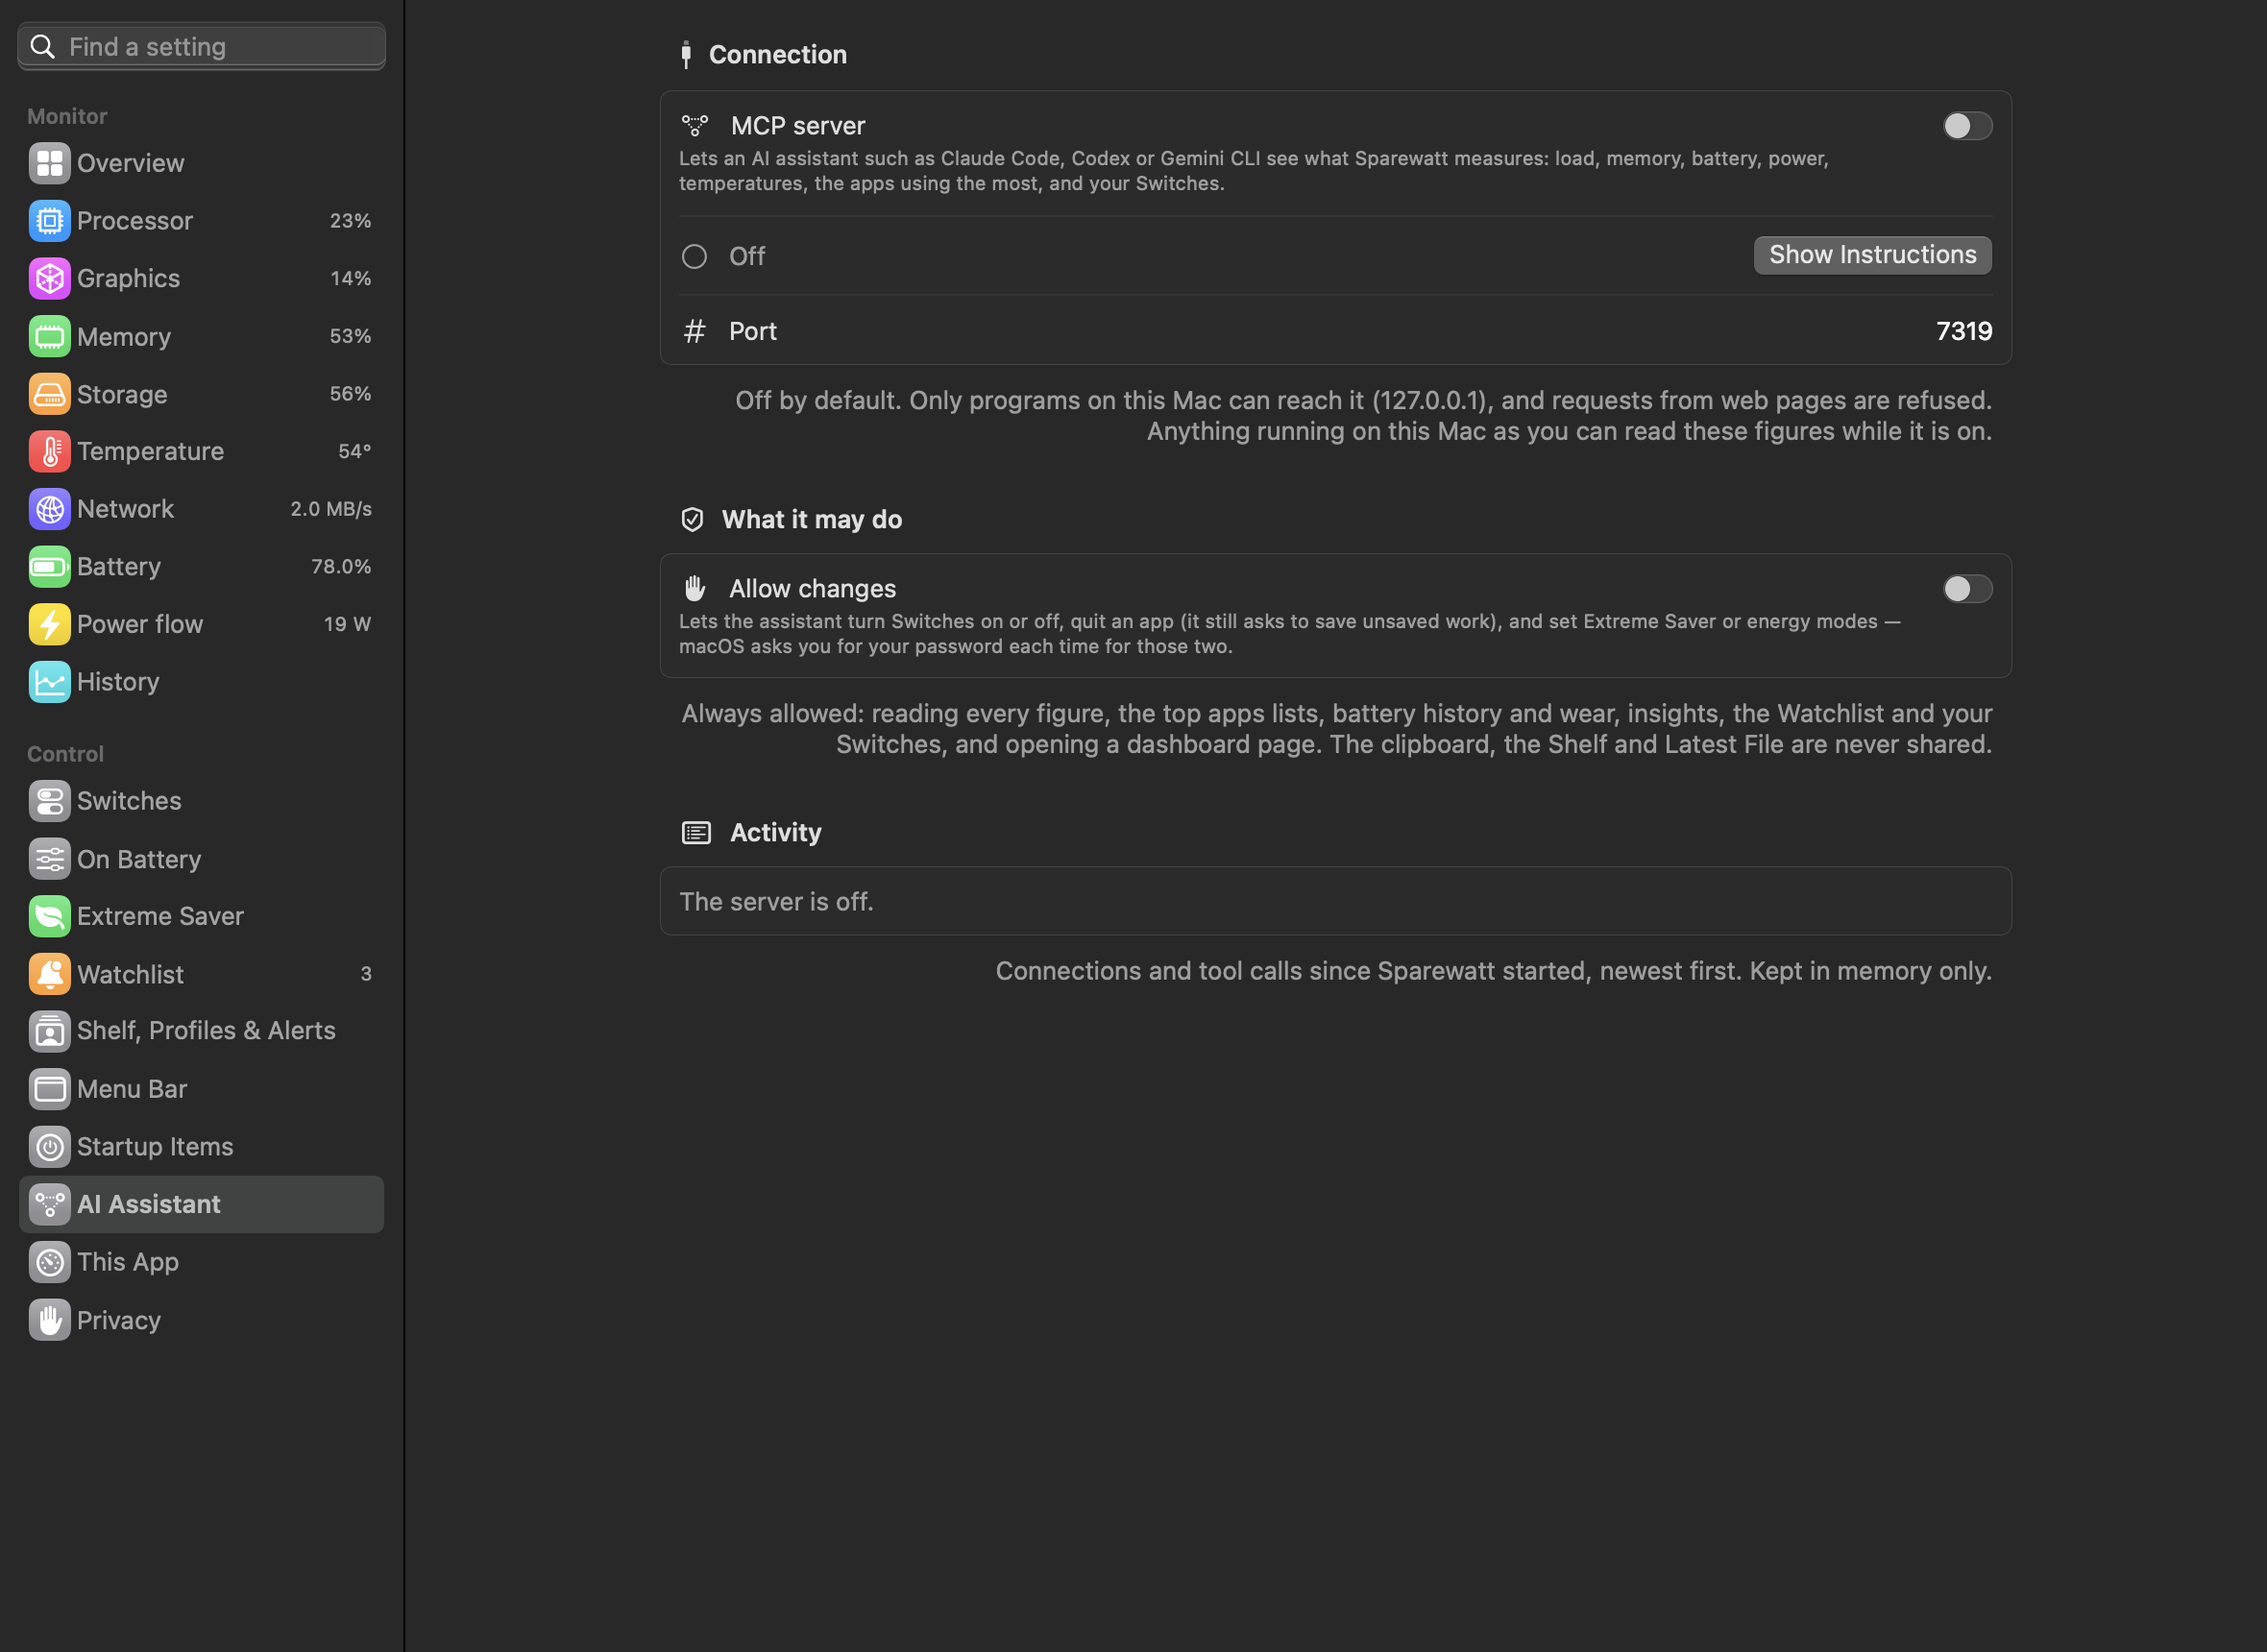
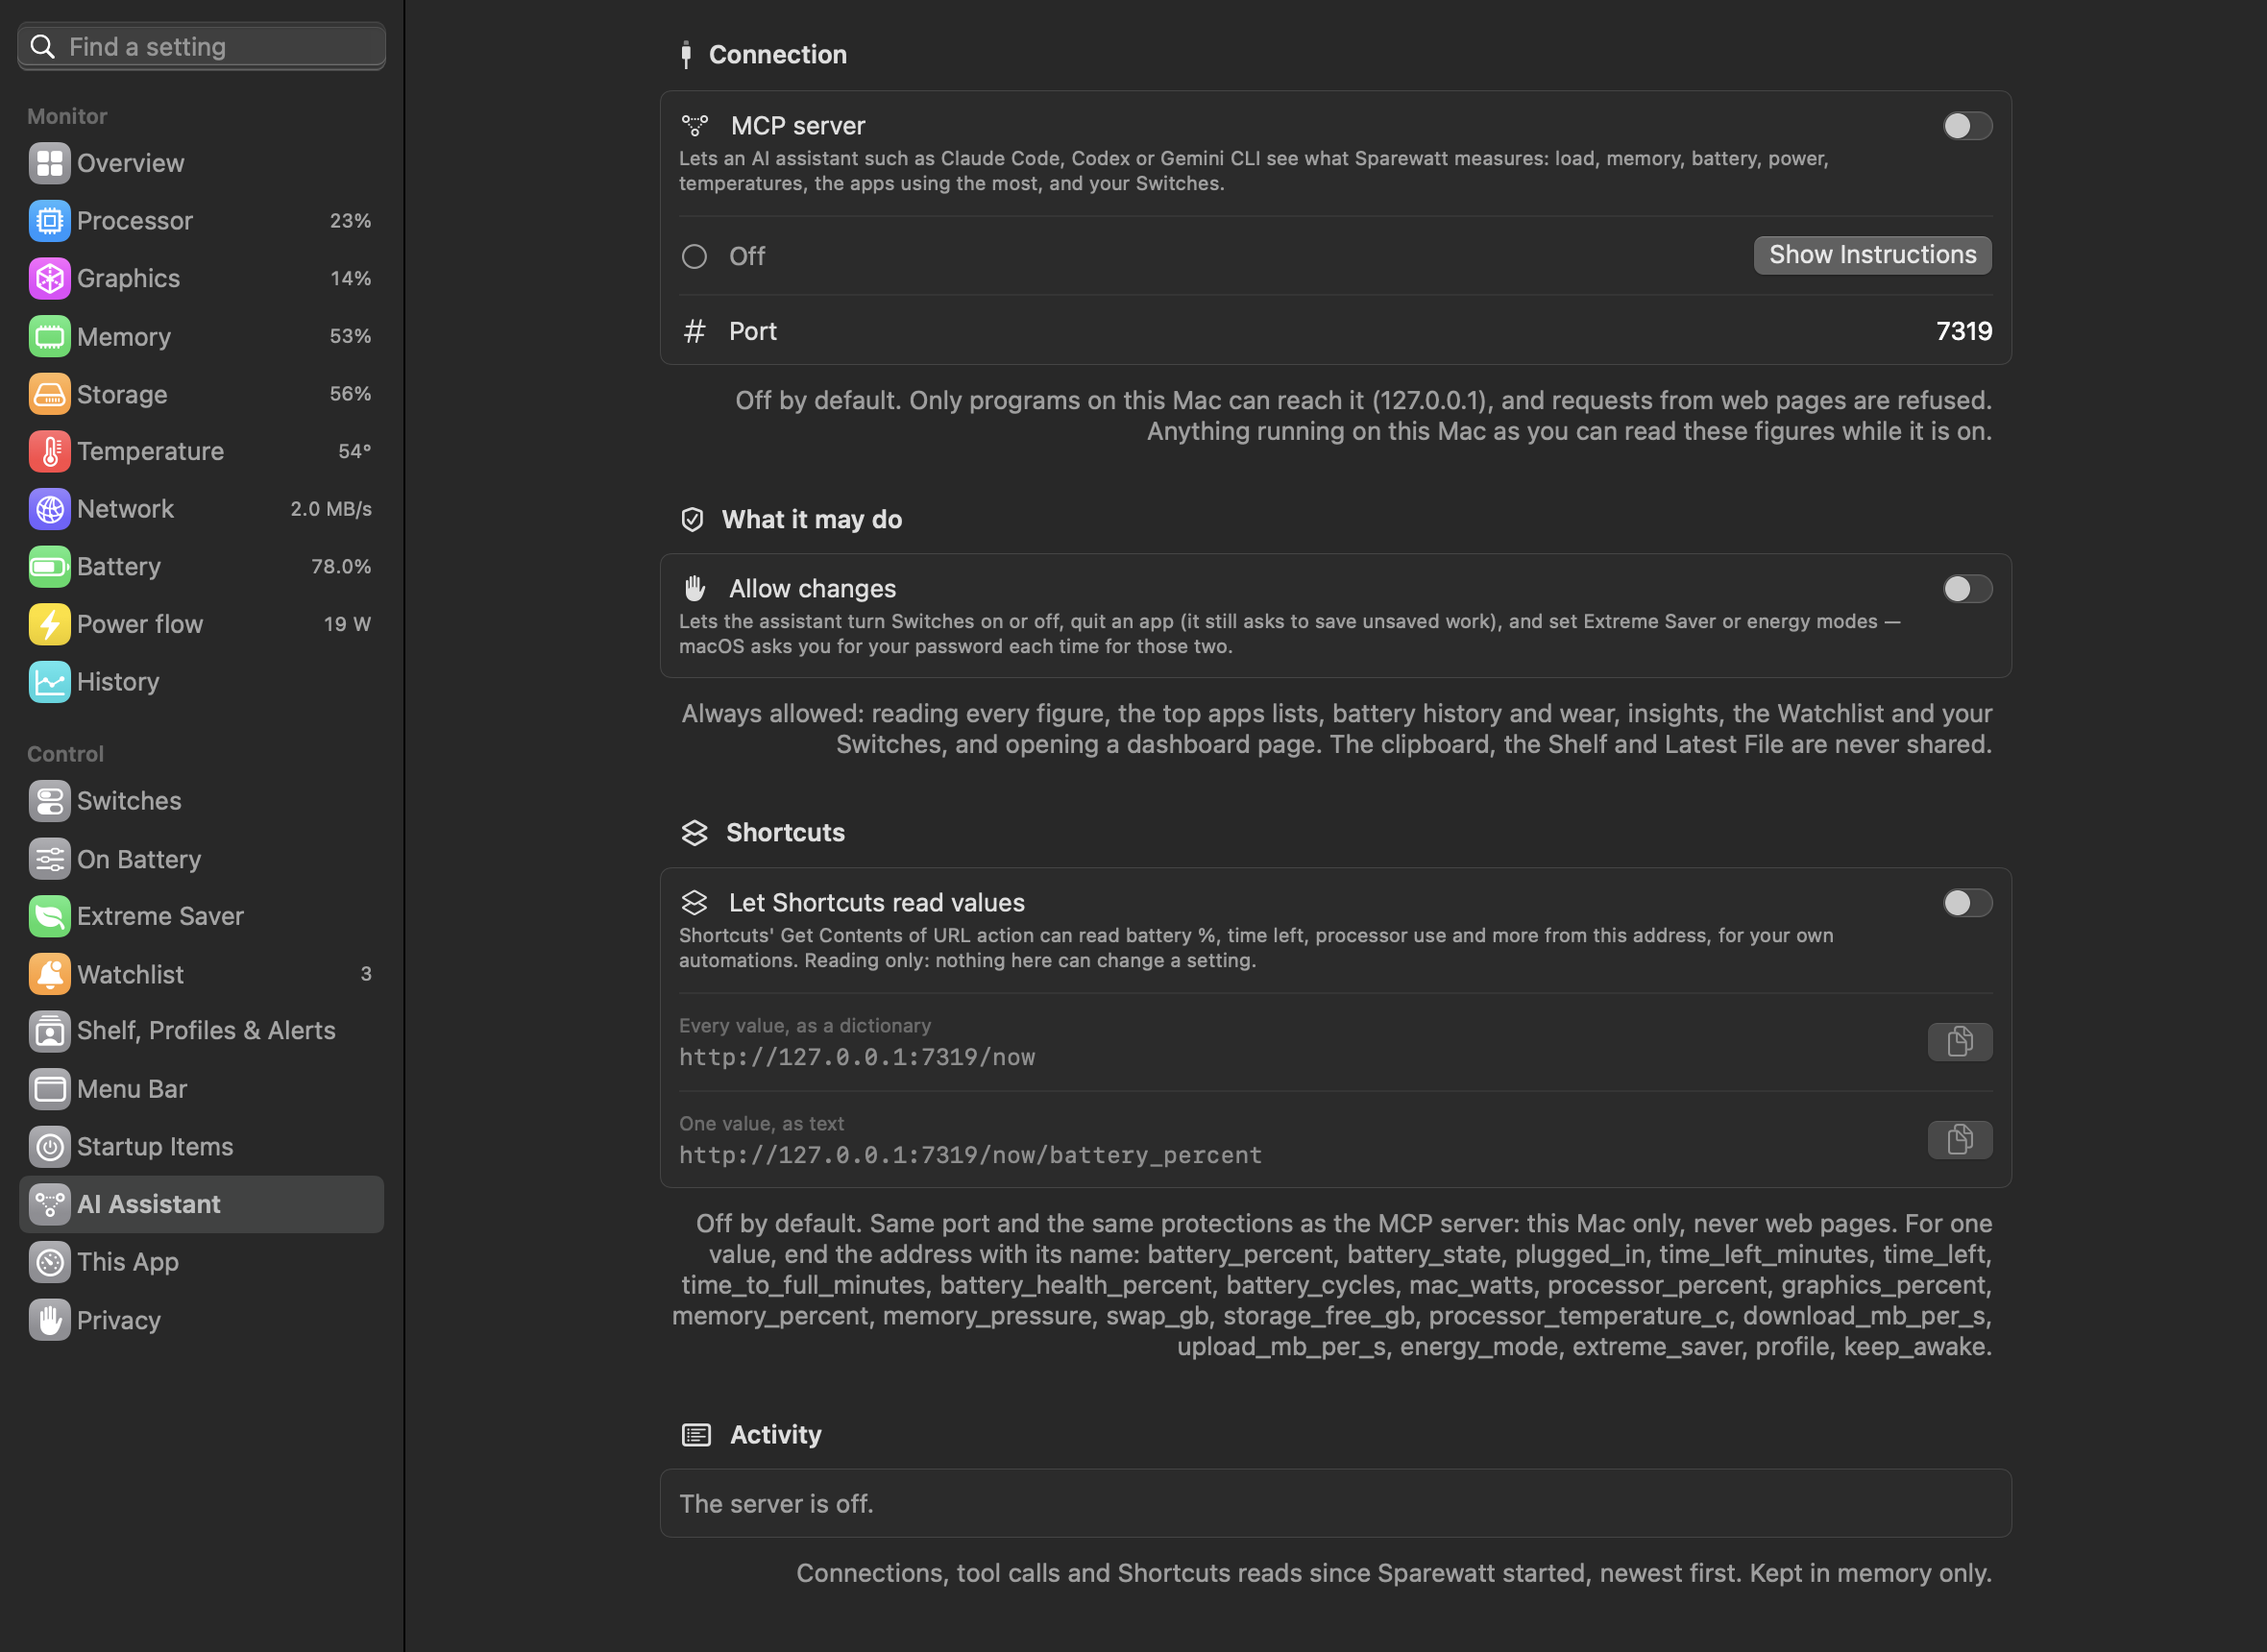
Sparewatt 1.25: Reading values in Shortcuts (Let Shortcuts read values: Get Contents of URL on http://127.0.0.1:7319/now, every value as a dictionary or one as text; keys table); links page, privacy guide, generated Privacy page, READMEs and changelog; AI Assistant and Privacy images

diff --git a/features/12 AI Assistant.md b/features/12 AI Assistant.md
@@ -2,7 +2,8 @@
 
 **Purpose.** Let an AI assistant on your Mac — Claude Code, Codex, Cursor, LM Studio or any other app that speaks
 MCP (the Model Context Protocol) — see what Sparewatt measures, so you can ask it *"why is my battery draining?"* or
-*"what is using all my memory?"* and get an answer from live readings instead of guesses.
+*"what is using all my memory?"* and get an answer from live readings instead of guesses. The same page lets
+[Shortcuts read Sparewatt's values](#reading-values-in-shortcuts), for automations of your own.
 
 <p align="center"><img src="../images/screenshots/dashboard-ai-assistant.png" width="760" alt="AI Assistant page"></p>
 
@@ -62,10 +63,50 @@ If you changed the port, use your port in place of 7319. Each copy button on the
 
 With *Allow changes* off, these tools answer that changes are off, and the assistant can tell you where to allow them.
 
+## Reading values in Shortcuts
+
+`sparewatt://` [links](../reference/Links%20for%20Shortcuts%20and%20scripts.md) send commands. To get a figure back into a
+shortcut (battery %, time left, processor use and so on), turn on **Let Shortcuts read values** in the *Shortcuts*
+section of this page. It is **off** until you turn it on. It uses the same port as the MCP server and works whether or
+not the MCP server is on.
+
+- **One value:** add **Get Contents of URL** with `http://127.0.0.1:7319/now/battery_percent`. The result is the value as
+  text (`82`), ready for **If**, **Calculate** or **Speak Text**.
+- **Every value:** `http://127.0.0.1:7319/now` gives them all as a dictionary. Follow it with **Get Dictionary Value**
+  and one of the keys below.
+
+The page shows both addresses with copy buttons, with your port in them.
+
+| Key | Gives |
+|---|---|
+| `battery_percent` | the charge, 0–100 |
+| `battery_state` | the charge state in the menu bar's words: *On battery*, *Charging*, *Not charging* … |
+| `plugged_in` | `true` or `false` |
+| `time_left_minutes`, `time_left` | the battery time left, in minutes and the way Sparewatt writes it (`3h 10m`) |
+| `time_to_full_minutes` | minutes until full, while charging |
+| `battery_health_percent`, `battery_cycles` | wear: the full charge against a new battery's, and the cycle count |
+| `mac_watts` | the Mac's power draw now |
+| `processor_percent`, `graphics_percent`, `memory_percent` | load, 0–100 |
+| `memory_pressure` | `normal`, `raised` or `critical` |
+| `swap_gb`, `storage_free_gb` | swap in use, and free space on the startup disk |
+| `processor_temperature_c` | the processor's temperature in °C |
+| `download_mb_per_s`, `upload_mb_per_s` | network speed now |
+| `energy_mode` | the energy mode in use now: *Automatic*, *Low Power* or *High Power* |
+| `extreme_saver`, `keep_awake` | `true` or `false` |
+| `profile` | the [profile](07%20Power%20controls.md#profiles) last applied |
+| `time` | when the values were read |
+
+A figure that doesn't exist right now (no battery, no time left while charging) is empty as text and `null` in the
+dictionary, so a key never goes missing. Each read shows in *Activity* below, as *read battery_percent* from
+*Shortcuts*.
+
+**Why a web address and not Shortcuts actions of their own:** macOS runs an app's own Shortcuts actions only for apps
+signed through an Apple developer account, which Sparewatt isn't yet.
+
 ## Activity
 
-The page lists each assistant that connected and every tool it called since Sparewatt started, newest first, with a
-mark for anything refused. Kept in memory only.
+The page lists each assistant that connected, every tool it called and every value Shortcuts read since Sparewatt
+started, newest first, with a mark for anything refused. Kept in memory only.
 
 ## Benefits
 
@@ -79,7 +120,8 @@ mark for anything refused. Kept in memory only.
 - **This Mac only.** The server listens on 127.0.0.1, so other computers can't reach it. Requests from web pages are
   refused, so a website can't read it through your browser.
 - **No password.** While the server is on, any program running on this Mac as you can read these figures. Turn it off
-  when you don't need it.
+  when you don't need it. The same goes for *Let Shortcuts read values*, which has the same protections: this Mac only,
+  and every request from a web page is refused.
 - **Never shared:** the clipboard, the Shelf and Latest File.
 - Where the reading goes after that is up to your assistant: a cloud AI sends what it reads to its company like
   anything else you ask it.

diff --git a/guide/08 Privacy and permissions.md b/guide/08 Privacy and permissions.md
@@ -9,9 +9,11 @@ your choice:
 - a [Switch](../features/10%20Switches.md) whose running check is *a web address answers* asks that address (usually a
   server on your own Mac) every 10 seconds while a panel or the dashboard is open, otherwise once a minute.
 
-If you turn on the [AI Assistant](../features/12%20AI%20Assistant.md)'s MCP server (off by default), Sparewatt also
-**answers** requests, from programs on this Mac only (127.0.0.1; web pages are refused). While it is on, any program
-running as you can read the readings, lists and history it offers. The clipboard, the Shelf and Latest File are never
+If you turn on the [AI Assistant](../features/12%20AI%20Assistant.md)'s MCP server or
+[Let Shortcuts read values](../features/12%20AI%20Assistant.md#reading-values-in-shortcuts) (both off by default),
+Sparewatt also **answers** requests, from programs on this Mac only (127.0.0.1; web pages are refused). While one is on,
+any program running as you can read what it offers: the readings, lists and history for the MCP server, the current
+readings for Shortcuts. The clipboard, the Shelf and Latest File are never
 offered. What an AI assistant does with what it reads is up to that assistant.
 
 **Report…** and **Report a problem…** (Dashboard → This App) don't send anything themselves: they open a new GitHub

diff --git a/guide/10 What Sparewatt runs and reads.md b/guide/10 What Sparewatt runs and reads.md
@@ -12,6 +12,7 @@ Everything Sparewatt starts, opens or asks for, in one list. The app shows the s
 - **Switches' web-address checks.** Only for a Switch whose check is “a web address answers”: it asks that address — usually a server on your own Mac — every 10 seconds with a panel open, otherwise every minute.
 - **Switches' port checks.** A Switch checked by its port connects to that port on this Mac (127.0.0.1); nothing leaves the Mac.
 - **AI Assistant.** Off unless you turn it on. It listens on 127.0.0.1 only, so only programs on this Mac can reach it, and refuses requests from web pages. It answers; it never sends anything by itself.
+- **Let Shortcuts read values.** Off unless you turn it on. The same listener on 127.0.0.1 answers Shortcuts' Get Contents of URL with the current readings; reading only, never from web pages, and it never sends anything by itself.
 - **Links you click.** Report a problem, Download and release notes open in your browser; Sparewatt itself sends nothing.
 
 ## Programs it starts

diff --git a/features/README.md b/features/README.md
@@ -84,6 +84,7 @@ answers three questions from the menu bar:
 | Privacy page | every program, file and permission Sparewatt uses | the same list as the guide, checked against the code | [Dashboard, history and this app](11%20Dashboard%2C%20history%20and%20this%20app.md#privacy-what-sparewatt-runs-and-reads) |
 | `sparewatt://` links | drive Sparewatt from Shortcuts and scripts | Extreme Saver, energy modes, panels, Switches in one step | [Links for Shortcuts and scripts](../reference/Links%20for%20Shortcuts%20and%20scripts.md) |
 | AI Assistant (MCP server) | let Claude Code, Codex, Cursor or any MCP app read the readings | ask "why?" in plain words, answered from live data | [AI Assistant](12%20AI%20Assistant.md) |
+| Reading values in Shortcuts | a local address that Shortcuts' Get Contents of URL reads: battery %, time left, load and more | automations of your own that act on a reading | [AI Assistant](12%20AI%20Assistant.md#reading-values-in-shortcuts) |
 
 ## Use cases: which features help when
 

diff --git a/CHANGELOG.md b/CHANGELOG.md
@@ -2,6 +2,15 @@
 
 What changed in Sparewatt, newest first, in plain words. Dates are when the change was made.
 
+## 2026-11-22 — Sparewatt 1.25
+
+Released as [Sparewatt 1.25](https://github.com/MShirazAhmad/Sparewatt-docs/releases/tag/v1.25-2026-11-22).
+
+- **Reading values in Shortcuts:** turn on *Let Shortcuts read values* (Dashboard → AI Assistant → Shortcuts) and
+  Shortcuts' **Get Contents of URL** can read battery %, time left, processor use, memory, temperature, the energy
+  mode and more from `http://127.0.0.1:7319/now`, all at once as a dictionary or one value at a time
+  ([more](features/12%20AI%20Assistant.md#reading-values-in-shortcuts)). Off by default, reading only, this Mac only.
+
 ## 2026-11-21 — Sparewatt 1.24
 
 Released as [Sparewatt 1.24](https://github.com/MShirazAhmad/Sparewatt-docs/releases/tag/v1.24-2026-11-21).

diff --git a/README.md b/README.md
@@ -79,6 +79,7 @@ catalogue and everyday scenarios ("a full day on battery", "the battery drops ov
 | Local services on/off | [Switches](features/10%20Switches.md) |
 | Dashboard, Find a setting, Mac health, history, "My Mac today" and "My Mac this week" cards, Startup Items, This App, settings export, Report a problem, Uninstall, the Privacy page | [Dashboard, history and this app](features/11%20Dashboard%2C%20history%20and%20this%20app.md) |
 | AI Assistant: an MCP server for Claude Code, Codex and other assistants | [AI Assistant](features/12%20AI%20Assistant.md) |
+| Reading values in Shortcuts: battery %, time left and more for your own automations | [AI Assistant](features/12%20AI%20Assistant.md#reading-values-in-shortcuts) |
 
 ## Guide
 

diff --git a/reference/Links for Shortcuts and scripts.md b/reference/Links for Shortcuts and scripts.md
@@ -11,6 +11,10 @@ what the matching button does, with the same password prompts, panels and dashbo
 
 If Sparewatt isn't running, the link starts it and runs once the menu bar item is drawn (about 3 seconds).
 
+Links send commands; they don't bring a value back. To read battery %, time left or another figure into a shortcut, use
+[Reading values in Shortcuts](../features/12%20AI%20Assistant.md#reading-values-in-shortcuts) (a local address for
+**Get Contents of URL**).
+
 ## Every link
 
 | Link | Does |
